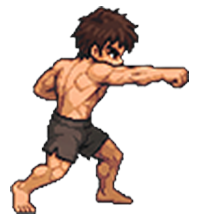
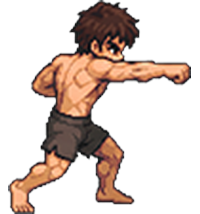
Combat: update player hit frames, fix MVP sound paths
- Replace cha_hit_0001/0002 attack frames, scaled to idle height
- Fix mvp.wav paths (were missing the sound/ folder) so clear sounds play

Claude-Session: https://claude.ai/code/session_01W4v7cyzS6Fr8aMVaGgywWE

diff --git a/js/combat.js b/js/combat.js
@@ -1188,7 +1188,7 @@ function onStageCleared() {
                 if (typeof resetMapRunes === 'function') resetMapRunes();
                 logMessage(`[Event] ${activeMap.title} cleared!`, 'levelup');
                 showModal("Event Cleared!", '', buildMapSummaryHTML('win', 'Return to Events'), () => switchView('events'));
-                playSound('mvp.wav');
+                playSound('sound/mvp.wav');
                 updateUI();
                 saveGame();
                 return;
@@ -1211,7 +1211,7 @@ function onStageCleared() {
                 addItemToInventory(reward);
 
                 showModal("Map Cleared!", '', buildMapSummaryHTML('win'), () => switchView('expeditions'));
-                playSound('mvp.wav');
+                playSound('sound/mvp.wav');
                 return;
             }
 
@@ -1220,7 +1220,7 @@ function onStageCleared() {
                 getEventState().dailyCleared = true;
                 updateUI();
                 saveGame();
-                playSound('mvp.wav');
+                playSound('sound/mvp.wav');
                 openChest('gold');
                 switchView('town');
                 return;
